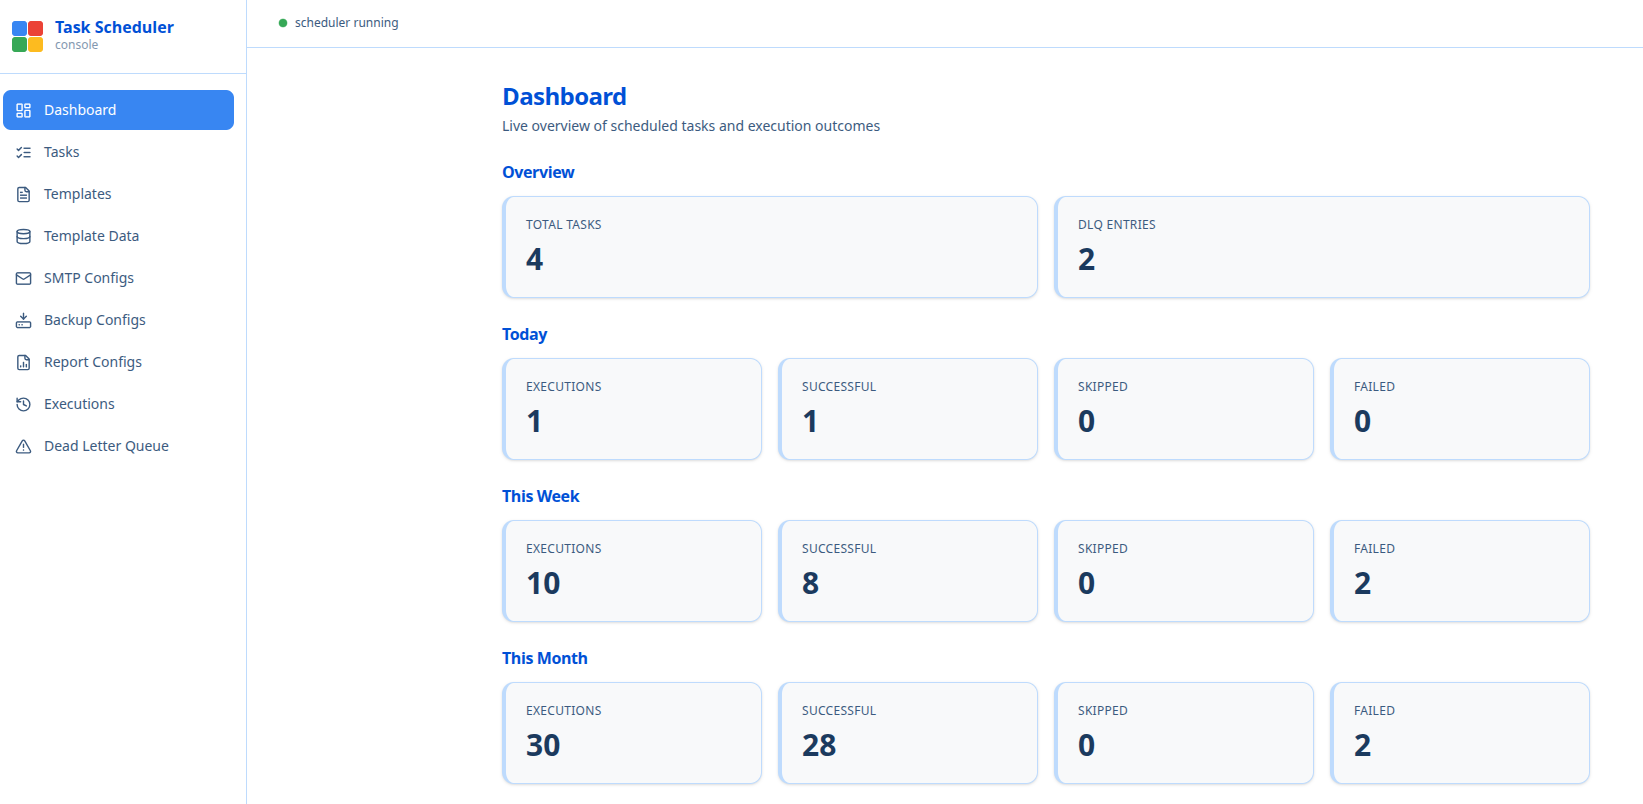
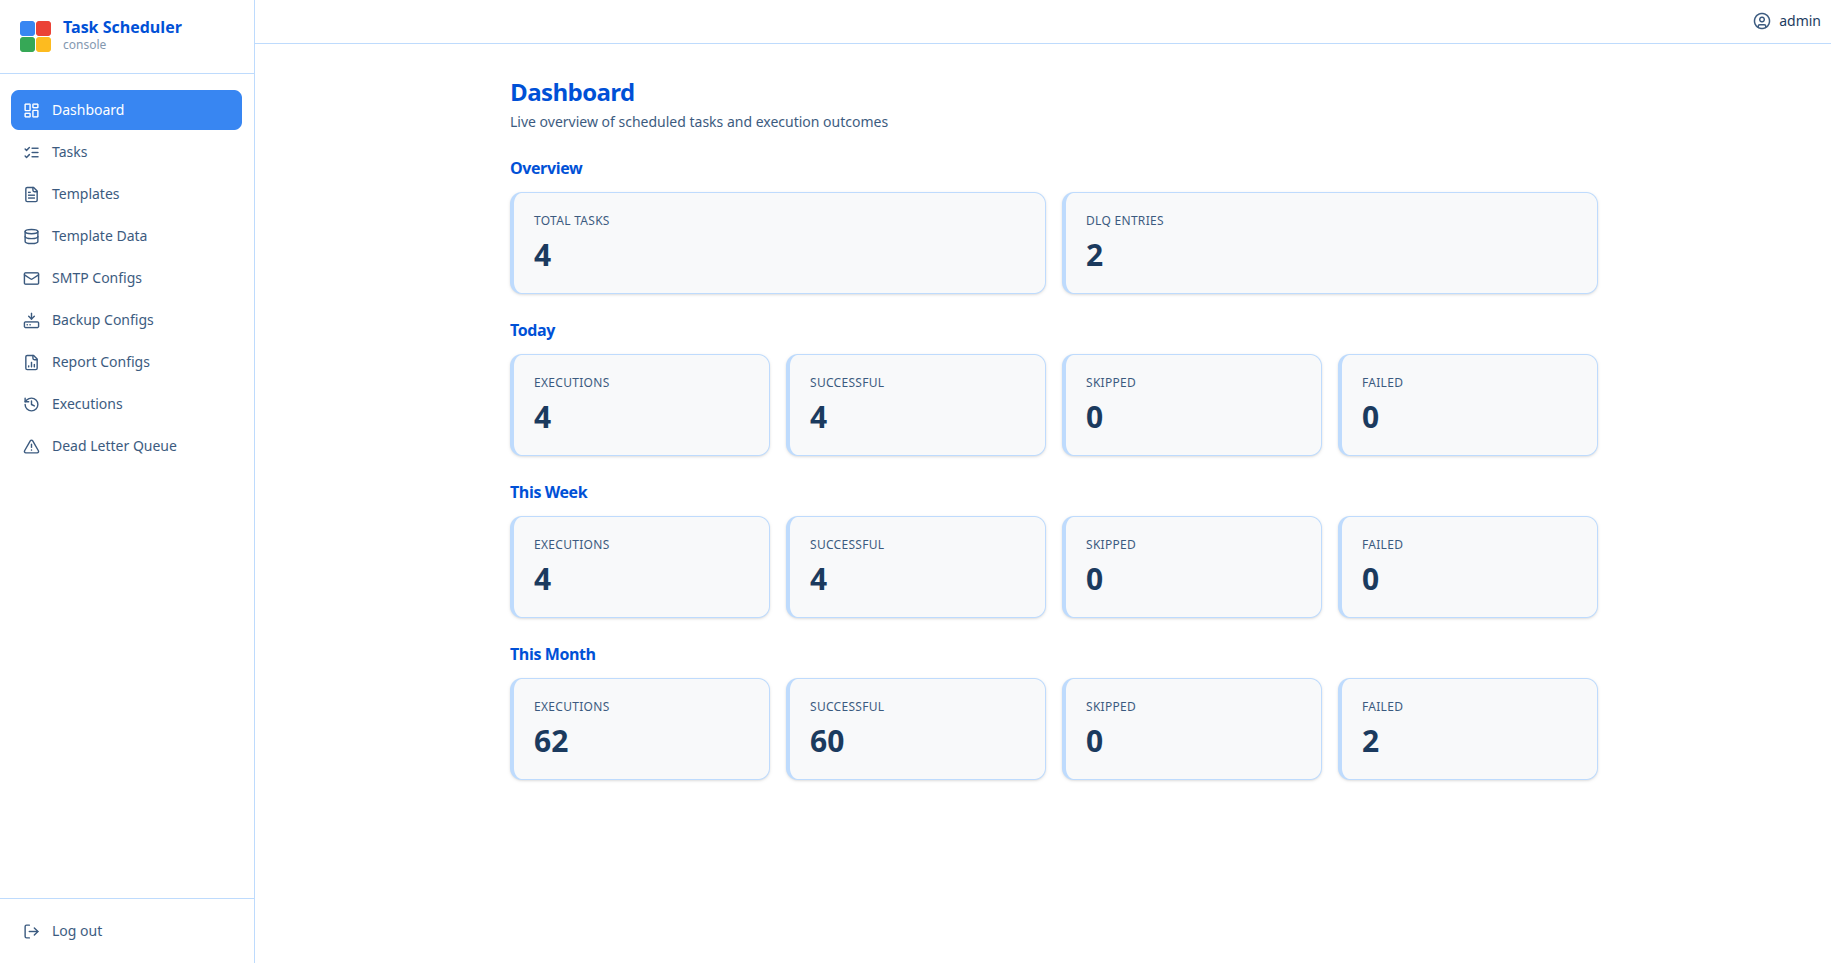
Added username to dashboard Updated dashboard image for readme

diff --git a/ui/src/context/AuthContext.jsx b/ui/src/context/AuthContext.jsx
@@ -1,7 +1,28 @@
-import { createContext, useContext, useState, useCallback } from 'react'
+import { createContext, useContext, useState, useCallback, useMemo } from 'react'
 import { login as loginRequest } from '../api/auth'
 
 const AuthContext = createContext(null)
+
+/**
+ * Reads the `sub` (username) claim out of a JWT for display purposes only.
+ * Never trust this for authorization — the server verifies the signature.
+ */
+function usernameFromToken(token) {
+  if (!token) return null
+  try {
+    const payload = token.split('.')[1]
+    const base64 = payload.replace(/-/g, '+').replace(/_/g, '/')
+    const json = decodeURIComponent(
+      atob(base64)
+        .split('')
+        .map((c) => '%' + ('00' + c.charCodeAt(0).toString(16)).slice(-2))
+        .join('')
+    )
+    return JSON.parse(json).sub ?? null
+  } catch {
+    return null
+  }
+}
 
 export function AuthProvider({ children }) {
   const [token, setToken] = useState(() => localStorage.getItem('token'))
@@ -18,8 +39,11 @@ export function AuthProvider({ children }) {
     setToken(null)
   }, [])
 
+  const username = useMemo(() => usernameFromToken(token), [token])
+
   const value = {
     token,
+    username,
     isAuthenticated: Boolean(token),
     login,
     logout,

diff --git a/ui/src/components/Layout.jsx b/ui/src/components/Layout.jsx
@@ -1,7 +1,7 @@
 import { NavLink, Outlet, useNavigate } from 'react-router-dom'
 import {
   LayoutDashboard, ListChecks, FileText,
-  Database, Mail, HardDriveDownload, FileBarChart2, History, AlertTriangle, LogOut,
+  Database, Mail, HardDriveDownload, FileBarChart2, History, AlertTriangle, LogOut, CircleUser,
 } from 'lucide-react'
 import { useAuth } from '../context/AuthContext'
 
@@ -44,7 +44,7 @@ function LogoWordmark({ size = 'base' }) {
 }
 
 export default function Layout() {
-  const { logout } = useAuth()
+  const { logout, username } = useAuth()
   const navigate = useNavigate()
 
   return (
@@ -97,16 +97,12 @@ export default function Layout() {
       {/* Main */}
       <div className="flex flex-1 flex-col overflow-hidden">
         {/* Top bar */}
-        <header className="flex items-center justify-between border-b border-[color:var(--color-border-soft)] bg-white px-8 py-3 shadow-sm">
+        <header className="flex items-center justify-end border-b border-[color:var(--color-border-soft)] bg-white px-8 py-3 shadow-sm">
           <div className="flex items-center gap-2">
-            <span className="pulse-dot" />
-            <span className="text-xs text-[color:var(--color-ink-muted)] font-[var(--font-mono)]">
-              scheduler running
+            <CircleUser size={18} className="text-[color:var(--color-ink-muted)]" />
+            <span className="text-sm font-medium text-[color:var(--color-ink)]">
+              {username ?? 'Account'}
             </span>
-          </div>
-          <div className="flex items-center gap-3">
-            <LogoMark size={24} />
-            <LogoWordmark size="sm" />
           </div>
         </header>
 